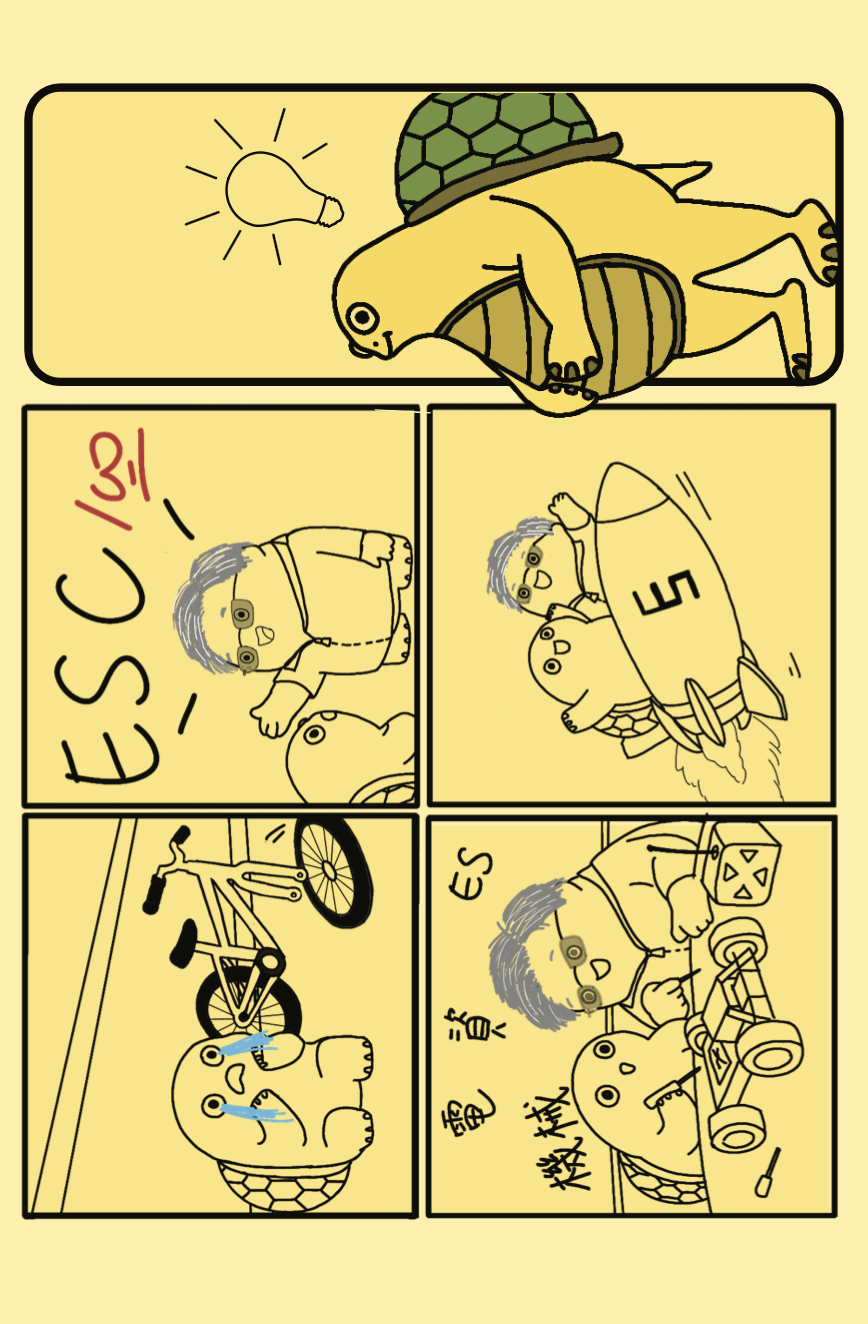
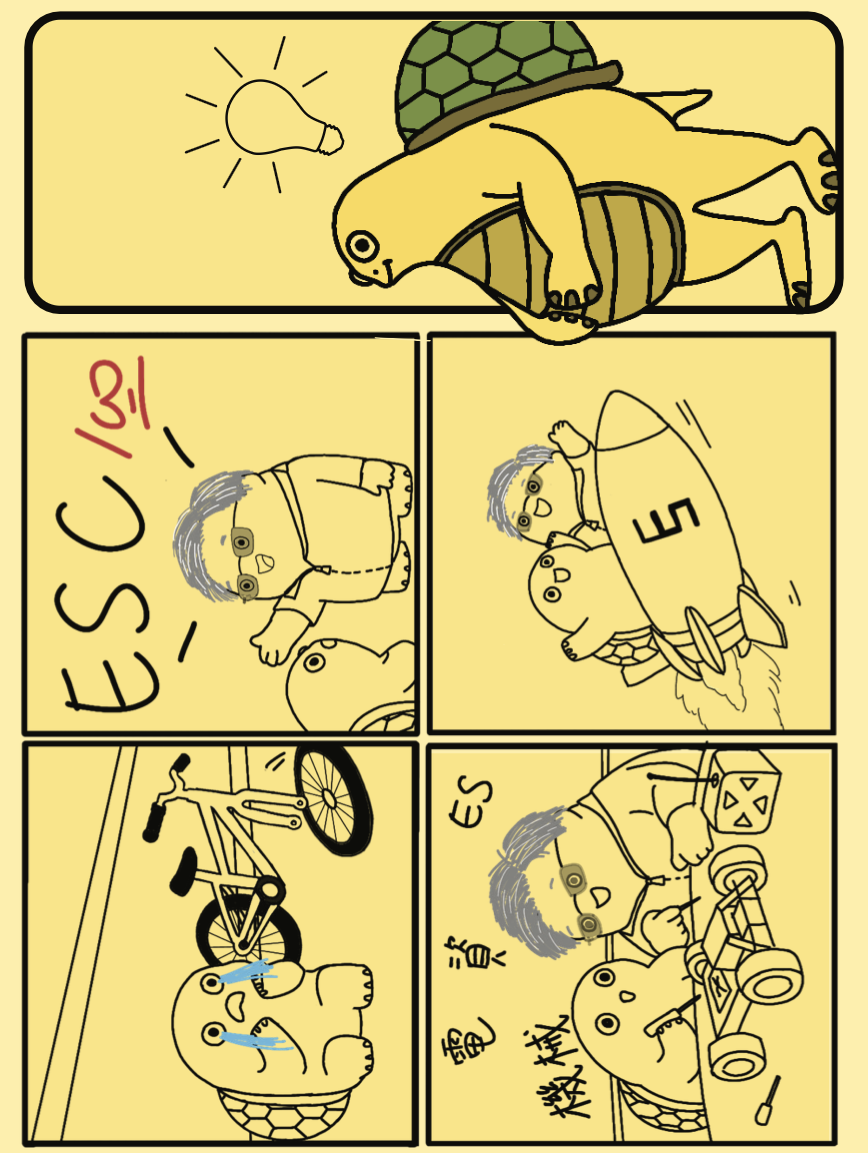
feat: colors updated

diff --git a/index.html b/index.html
@@ -77,7 +77,7 @@
             <p class="kicker panel-kicker">報名方案</p>
             <ul class="price-list">
               <li class="early">
-                <span class="who">早鳥報名<small>11/16（日）23:59 前報名</small></span>
+                <span class="who">早鳥報名<small>11/22（日）23:59 前報名</small></span>
                 <span class="amt">$6,800<small>/ 人</small></span>
               </li>
               <li>
@@ -128,7 +128,7 @@
             <p class="ans">有喔！會提供成大宿舍。</p>
           </details>
           <details>
-            <summary><span class="qn">Q2</span>6500 包含哪些費用？<span class="pm" aria-hidden="true"></span></summary>
+            <summary><span class="qn">Q2</span>7300 包含哪些費用？<span class="pm" aria-hidden="true"></span></summary>
             <p class="ans">整個營期的三餐、宿舍、保險、教材。</p>
           </details>
           <details>

diff --git a/css/common.css b/css/common.css
@@ -8,14 +8,14 @@
 /* ---------- 1. 設計變數（Design Tokens） ---------- */
 :root {
   /* 顏色：直接從 logo / 海報取色 */
-  --paper:        #FFF9DC;  /* 紙底（海報底色） */
+  --paper:        #fdefae;  /* 紙底（海報底色） */
   --paper-light:  #FFFDEC;  /* 分格內底色 */
   --paper-dark:   #F4EAC0;  /* 較深的紙色，用於區隔 */
   --ink:          #49310B;  /* 墨咖啡：主色、文字、框線（ESC28 字條） */
   --ink-soft:     #6E5420;  /* 次要文字 */
   --muted:        #8A7442;  /* 說明文字、標註 */
   --yellow:       #F7D047;  /* 品牌黃（logo 字色） */
-  --yellow-soft:  #FCE376;  /* 淡黃（格紋、網點） */
+  --yellow-soft:  #f9e58b;  /* 淡黃（格紋、網點） */
 
   /* 字體 */
   --font-serif: "Noto Serif TC", "Songti TC", serif;       /* 標題 */

diff --git a/js/layout.js b/js/layout.js
@@ -69,6 +69,7 @@
               <ul>
                 <li><a href="mailto:${cfg.contactEmail}">${cfg.contactEmail}</a></li>
                 <li><a href="${cfg.facebookURL}" target="_blank" rel="noopener">Facebook 粉絲專頁</a></li>
+                <li><a href="${cfg.instagramURL}" target="_blank" rel="noopener">Instagram 帳號</a></li>
                 <li>${cfg.locationText}</li>
               </ul>
             </div>
